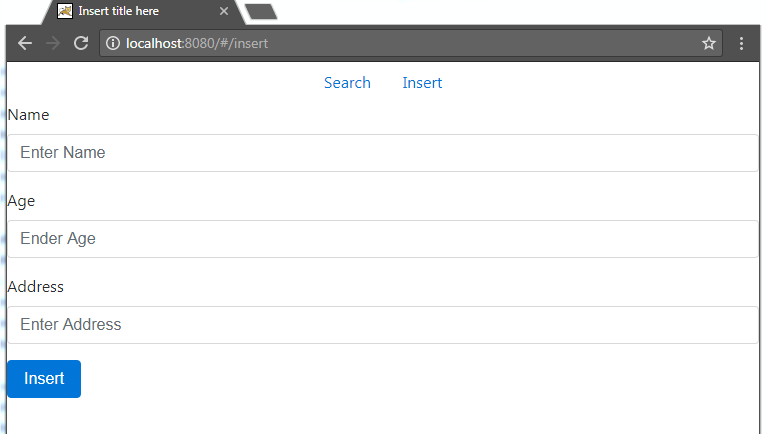
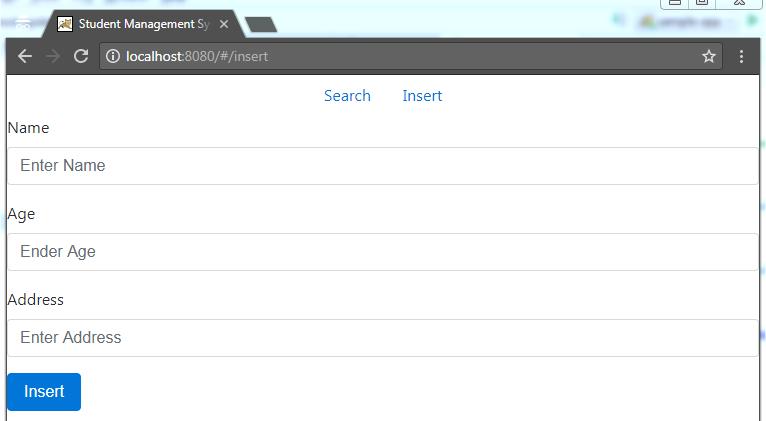
Update Readme file.

diff --git a/src/main/webapp/app/mod-update/updateView.html b/src/main/webapp/app/mod-update/updateView.html
@@ -1,7 +1,7 @@
 <form>
     <div class="form-group" ng-show="_data.id">
         <label for="idInput">Id</label>
-        <input ng-model="_data.id" type="text" class="form-control" id="idInput" aria-describedby="emailHelp" placeholder="student ID" ng-disabled="_data.id">
+        <input ng-model="_data.id" type="text" class="form-control" id="idInput" placeholder="student ID" ng-disabled="_data.id">
     </div>
     <div class="form-group">
         <label for="nameInput">Name</label>

diff --git a/src/main/webapp/index.html b/src/main/webapp/index.html
@@ -1,7 +1,7 @@
 <html ng-app="SampleApp">
 <head>
     <meta charset="ISO-8859-1">
-    <title>Insert title here</title>
+    <title>Student Management System</title>
     <!--<link rel="stylesheet" href="lib/css/bootstrap.css">-->
     <link rel="stylesheet" href="lib/css/ngDialog.css">
     <link rel="stylesheet" href="lib/css/ngDialog-theme-default.css">

diff --git a/README.md b/README.md
@@ -25,7 +25,7 @@ CREATE TABLE STUDENT(
 - `Jersey` framework used to developing RESTful Web services.
 - `Apache Maven` is used as a software project management tool.
 
-![Alt text](search.PNG?raw=true "Optional Title")
+![Alt text](search.PNG?raw=true "Search window")
 
-![Alt text](insert.PNG?raw=true "Optional Title")
+![Alt text](insert.PNG?raw=true "Insert Window")
 
